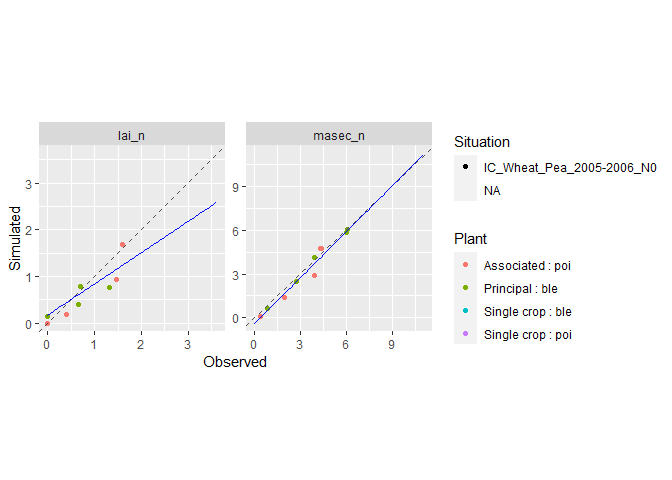
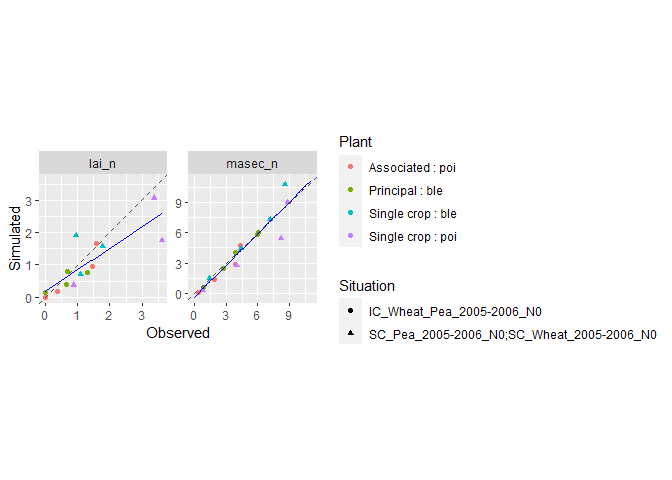
Add Zenodo badge

diff --git a/README.md b/README.md
@@ -12,6 +12,7 @@ public.](https://www.repostatus.org/badges/latest/wip.svg)](https://www.repostat
 coverage](https://codecov.io/gh/SticsRPacks/CroPlotR/branch/master/graph/badge.svg)](https://codecov.io/gh/SticsRPacks/CroPlotR?branch=master)
 [![R build
 status](https://github.com/SticsRPacks/CroPlotR/workflows/R-CMD-check/badge.svg)](https://github.com/SticsRPacks/CroPlotR/actions)
+[![DOI](https://zenodo.org/badge/263962392.svg)](https://zenodo.org/badge/latestdoi/263962392)
 <!-- badges: end -->
 
 `CroPlotR` aims at the standardization of the process of analyzing the
@@ -98,7 +99,7 @@ Let’s import the simulation and observation data:
 
 ``` r
 library(CroPlotR)
-#> Learn CroPlotR at: [34m[4m[1mhttps://SticsRPacks.github.io/CroPlotR[22m[24m[39m
+#> Learn CroPlotR at: https://SticsRPacks.github.io/CroPlotR
 
 # Importing an example with three situations with observation:
 workspace= system.file(file.path("extdata", "stics_example_1"), package = "CroPlotR")
@@ -321,8 +322,8 @@ equal to two standard deviations on each side of the point.
 
 ``` r
 obs_sd = obs
-obs_sd$`SC_Pea_2005-2006_N0`[,-c(1,2,3,4,5,6,35)]= 0.05*obs_sd$`SC_Pea_2005-2006_N0`[,-c(1,2,3,4,5,6,35)]
-obs_sd$`SC_Wheat_2005-2006_N0`[,-c(1,2,3,4,5,6,35)]= 0.2*obs_sd$`SC_Wheat_2005-2006_N0`[,-c(1,2,3,4,5,6,35)]
+obs_sd$`SC_Pea_2005-2006_N0`[, !(names(obs_sd$`SC_Pea_2005-2006_N0`) %in% c("Date","Plant"))]= 0.05*obs_sd$`SC_Pea_2005-2006_N0`[, !(names(obs_sd$`SC_Pea_2005-2006_N0`) %in% c("Date","Plant"))]
+obs_sd$`SC_Wheat_2005-2006_N0`[, !(names(obs_sd$`SC_Pea_2005-2006_N0`) %in% c("Date","Plant"))]= 0.2*obs_sd$`SC_Wheat_2005-2006_N0`[, !(names(obs_sd$`SC_Pea_2005-2006_N0`) %in% c("Date","Plant"))]
 plot(sim, obs= obs, obs_sd= obs_sd, type = "scatter", all_situations = TRUE)
 #> $all_situations
 ```
